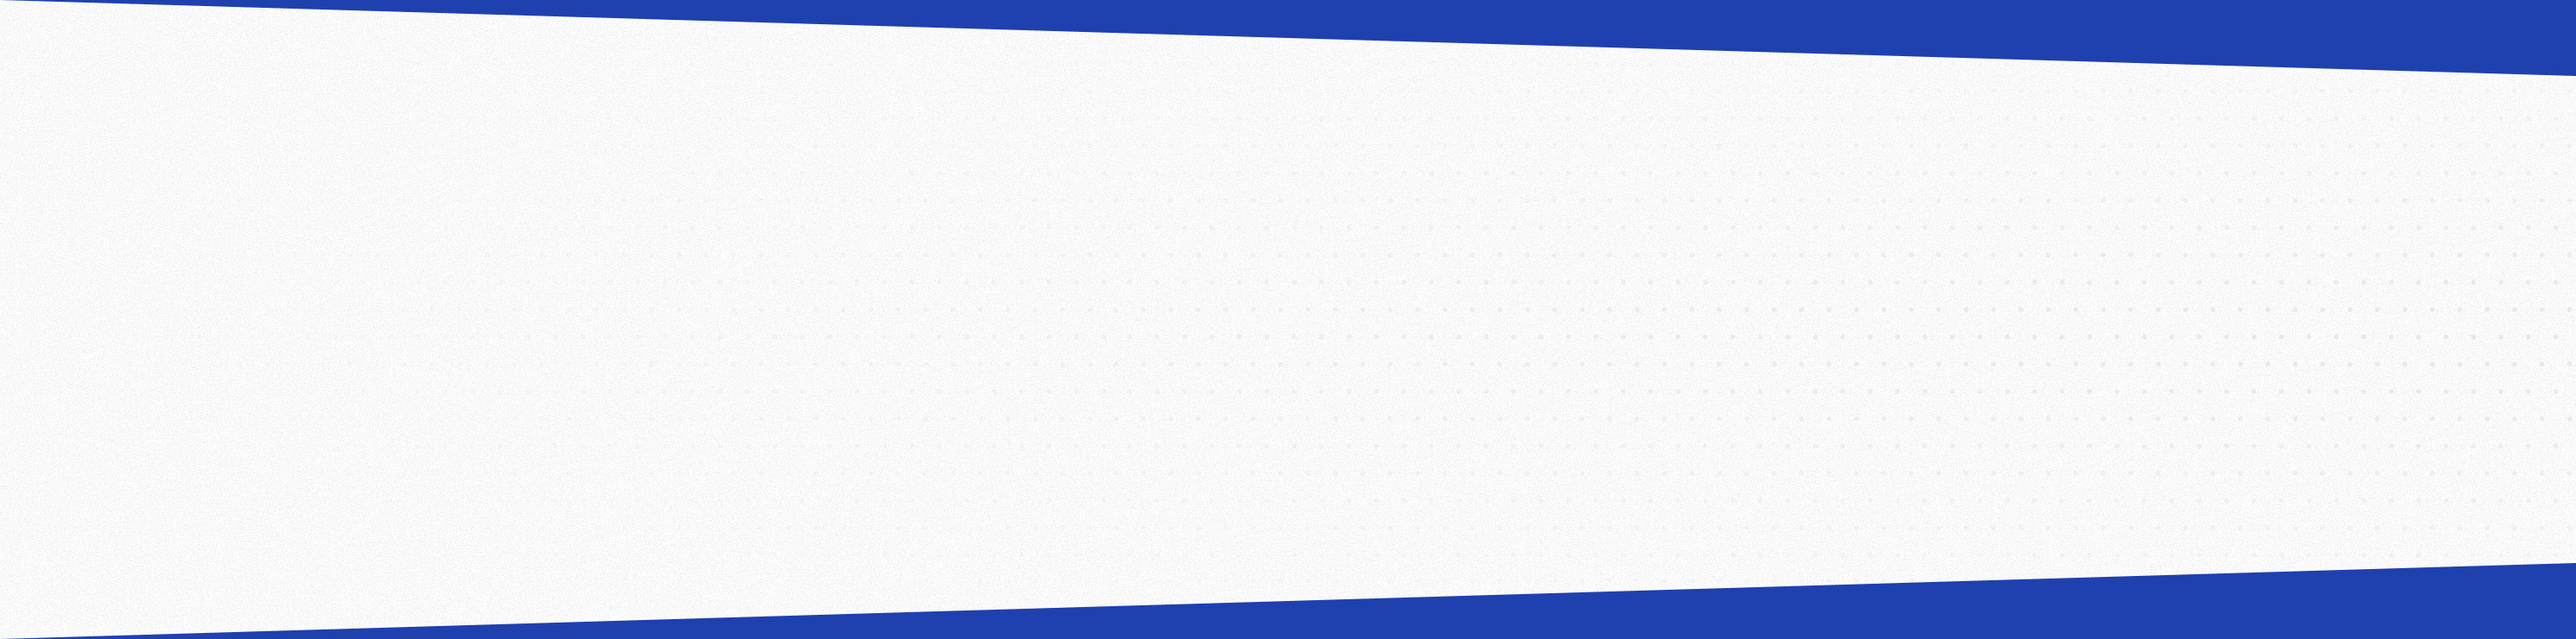
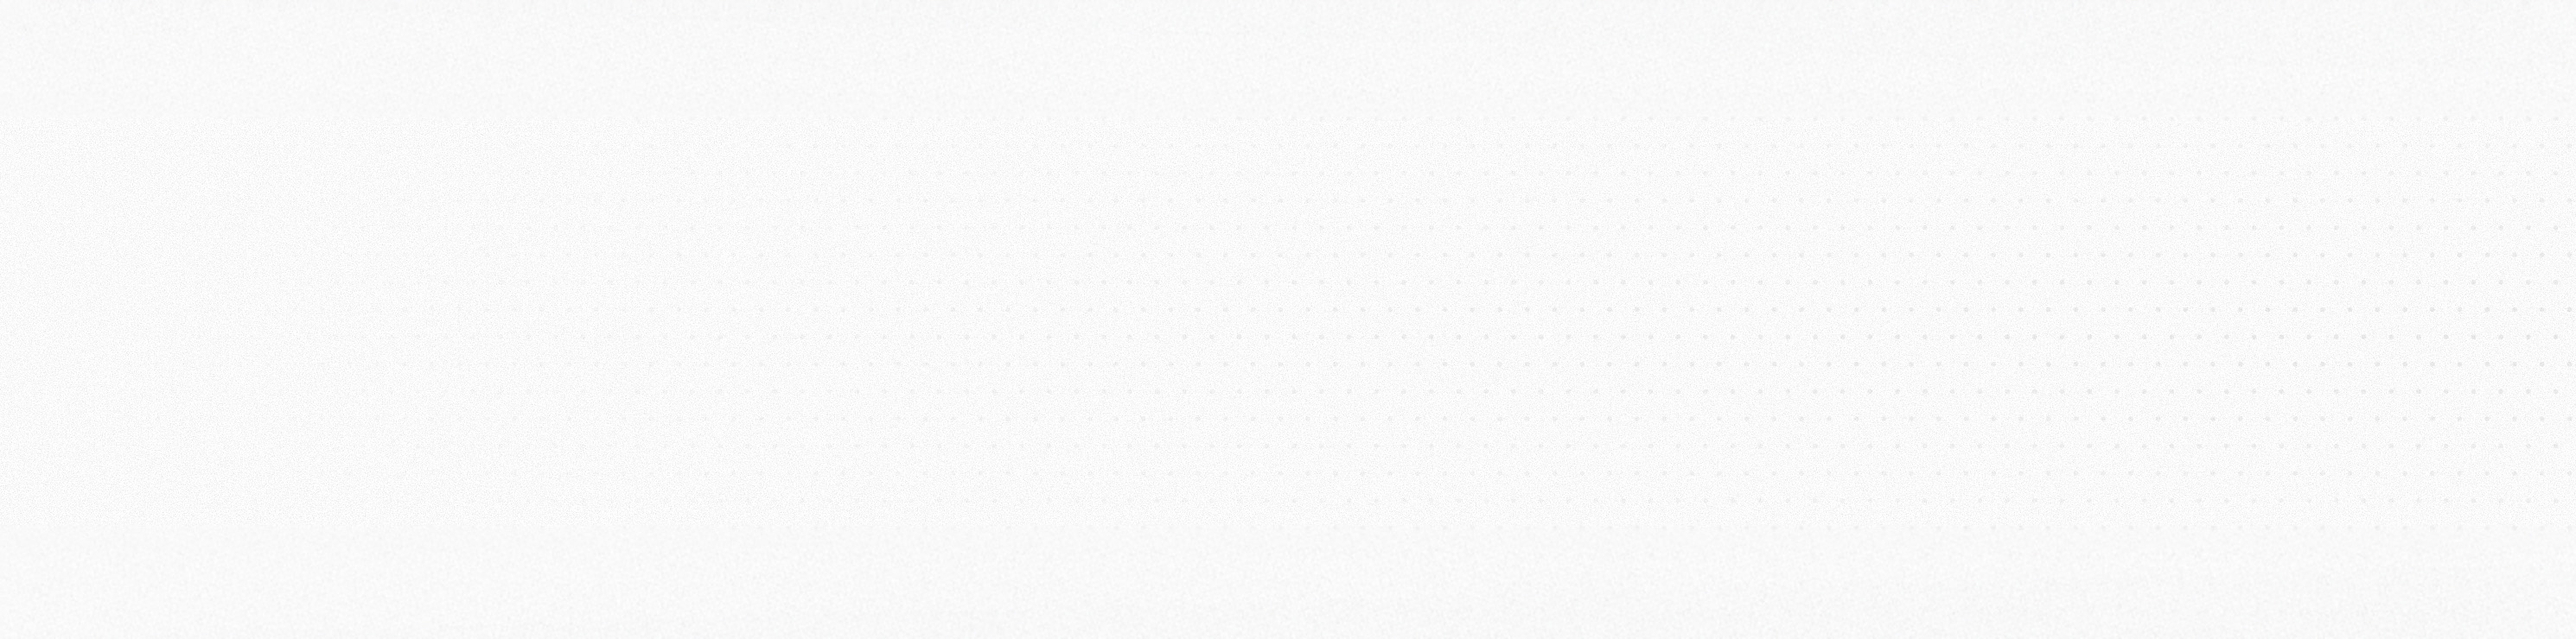
Updates

Changed region(s): [[0.0, 0.8703, 1.0, 1.0], [0.0312, 0.0, 1.0, 0.1243]]

diff --git a/index.html b/index.html
@@ -295,24 +295,22 @@
             transform: translateY(-2px);
         }
 
-        /* Dribbble-style section divider (curved wave) */
+        /* Minimal section divider */
         .section-divider {
-            position: relative;
-            line-height: 0;
-        }
-
-        .section-divider svg {
-            display: block;
             width: 100%;
-            height: 70px;
+            border: 0;
+            margin: 0;
         }
 
-        .section-divider--light path {
-            fill: rgba(255, 255, 255, 0.08);
+        /* Hidden for sections with contrasting backgrounds */
+        .section-divider--light {
+            display: none;
         }
 
-        .section-divider--dark path {
-            fill: rgba(0, 0, 0, 0.08);
+        /* Subtle line for sections with same background */
+        .section-divider--dark {
+            height: 1px;
+            background: rgba(255, 255, 255, 0.08);
         }
 
         /* Glassmorphism panel used to differentiate sections/cards */
@@ -876,12 +874,8 @@
         </div>
     </section>
 
-    <!-- Divider: Hero → Apps Overview -->
-    <div class="section-divider section-divider--light" aria-hidden="true">
-        <picture>
-            <img src="images/layered-slants.svg" alt="" width="100%" height="auto">
-        </picture>
-    </div>
+    <!-- Divider: Hero → Apps Overview (Hidden/Straight Edge) -->
+    <div class="section-divider section-divider--light" aria-hidden="true"></div>
 
     <!-- Apps Overview Section -->
     <section id="apps-overview" class="py-24 relative bg-gray-50">
@@ -1055,12 +1049,8 @@
         </div>
     </section>
 
-    <!-- Divider: Hero → Apps Overview -->
-    <div class="section-divider section-divider--light" style="transform: scaleY(-1);" aria-hidden="true">
-        <picture>
-            <img src="images/layered-slants.svg" alt="" width="100%" height="-auto">
-        </picture>
-    </div>
+    <!-- Divider: Hero → Apps Overview (Hidden/Straight Edge) -->
+    <div class="section-divider section-divider--light" aria-hidden="true"></div>
 
     <!-- Why Bricks Section -->
     <section class="py-24 relative">
@@ -1160,12 +1150,8 @@
         </div>
     </section>
 
-    <!-- Divider: Why Bricks → Testimonials -->
-    <div class="section-divider section-divider--light" aria-hidden="true">
-        <svg viewBox="0 0 1440 70" preserveAspectRatio="none">
-            <path d="M0,35 C240,55 480,10 720,35 C960,60 1200,20 1440,40 L1440,70 L0,70 Z"></path>
-        </svg>
-    </div>
+    <!-- Divider: Why Bricks → Testimonials (Subtle Line) -->
+    <div class="section-divider section-divider--dark" aria-hidden="true"></div>
 
     <!-- Testimonials Section -->
     <section class="testimonials-section py-24 relative overflow-hidden">
@@ -1229,12 +1215,8 @@
         </div>
     </section>
 
-    <!-- Divider: Testimonials → Final CTA -->
-    <div class="section-divider section-divider--dark" aria-hidden="true">
-        <svg viewBox="0 0 1440 70" preserveAspectRatio="none">
-            <path d="M0,45 C240,25 480,55 720,25 C960,-5 1200,45 1440,25 L1440,70 L0,70 Z"></path>
-        </svg>
-    </div>
+    <!-- Divider: Testimonials → Final CTA (Subtle Line) -->
+    <div class="section-divider section-divider--dark" aria-hidden="true"></div>
 
     <!-- Final CTA Section -->
     <section class="py-24 relative">
@@ -1291,12 +1273,8 @@
         </div>
     </section>
 
-    <!-- Divider: Final CTA → Coming Soon -->
-    <div class="section-divider section-divider--light" aria-hidden="true">
-        <svg viewBox="0 0 1440 70" preserveAspectRatio="none">
-            <path d="M0,30 C240,65 480,5 720,35 C960,65 1200,15 1440,40 L1440,70 L0,70 Z"></path>
-        </svg>
-    </div>
+    <!-- Divider: Final CTA → Coming Soon (Subtle Line if needed, or straight) -->
+    <div class="section-divider section-divider--dark" aria-hidden="true"></div>
 
     <!-- Bricks Leads Coming Soon Section -->
     <section id="coming-soon" class="py-24 relative overflow-hidden">
